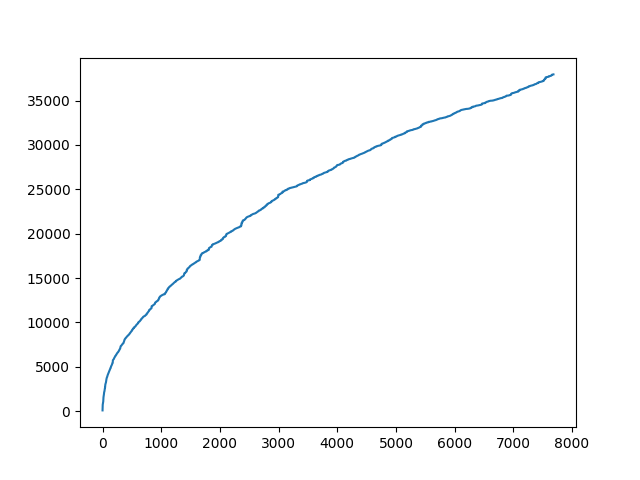
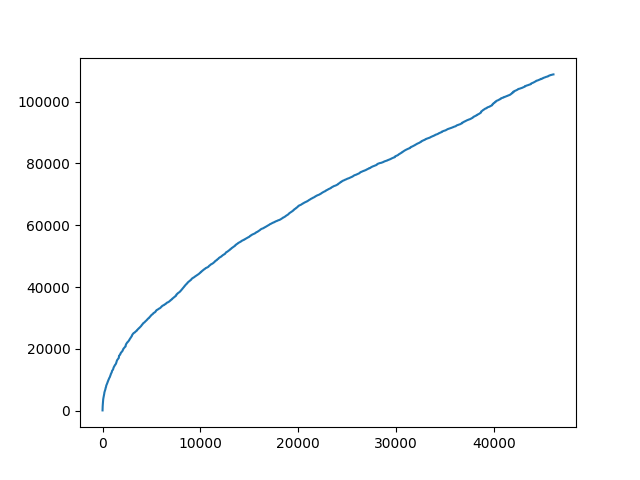
minor changes in reading corpus

diff --git a/Backend/backend_main.py b/Backend/backend_main.py
@@ -27,7 +27,7 @@ def get_news_content(id):
 def get_news_headers(query):
     print("your query: ", query)
     query_phrases, _ = qh.extract_query_parts(query, without_pipeline=True)
-    ans = qh.ask(query)
+    ans = qh.ask(query, b=min(len(dct.centroids), 5))
     results = []
     for doc_id in ans:
         news_model_view = mdls[doc_id]
@@ -40,7 +40,7 @@ def get_news_headers(query):
 
 
 def get_similars(news_id):
-    answers = qh.ask(None, doc=dct.docs[news_id], k=15)
+    answers = qh.ask(None, doc=dct.docs[news_id], k=15, b=min(len(dct.centroids) - 2, 1))
     scores = {}
     for ans in answers:
         scores[ans] = date_subtractor(mdls[ans].publish_date, mdls[ans].publish_date)
@@ -163,24 +163,32 @@ if not os.path.exists('data/dictionary_obj.pkl'):
     labeled_docs_vector = dct2.docs
     del dct2
 
-print("reading from corpus...")
-# corpus = import_utils.load_corpus(flag="xls")
-corpus = import_utils.load_corpus(loc="data/csv/ir-news-0-2.csv", flag="csv")
+NUMBER_OF_FILES = 5
+dataset_base_loc = "data/csv/ir-news-"
 
-print("indexing...")
-mdls = news_model.create_models_list_from_news(corpus)
+print("reading from corpus...")
+mdls = []
+for i in range(NUMBER_OF_FILES):
+    # corpus = import_utils.load_corpus(flag="xls")
+    print("reading " + "file " + str(i + 1) + " ...")
+    loc = dataset_base_loc + str(2 * i) + "-" + str(2 * (i + 1)) + ".csv"
+    corpus = import_utils.load_corpus(loc=loc, flag="csv")
+
+    print("indexing...")
+    mdls.append(news_model.create_models_list_from_news(corpus))
+
 mdls_with_tags = copy.deepcopy(mdls)
 
 print("before:", len(mdls))
-mdls = [model for model in mdls if import_utils.remove_tags(model) is not None]
+mdls = [model for model_list in mdls for model in model_list if import_utils.remove_tags(model) is not None]
 print("after:", len(mdls))
 
 ind = nindexer.Indexer()
+print("feeding ...")
 ind.feed(mdls)
 print("creating dictionary...")
 dct = ind.create_dictionary(labeled_vectors=labeled_docs_vector)
 qh = QueryHandler(dct)
 flask_app = app.FlaskServer(get_news_headers, get_news_content, get_similars)
-
 
 flask_app.run()

diff --git a/Backend/utils/import_utils.py b/Backend/utils/import_utils.py
@@ -12,12 +12,18 @@ DATA_LOC = "data/news.xlsx"
 # DATA_LOC = "data/news_14.csv"
 
 def remove_tags(news_model):
-    if not news_model.content:
-        return None
-    news_model.content = BeautifulSoup(news_model.content, 'lxml').text
-    if not news_model.content:
-        return None
-    return news_model
+    if type(news_model) is list:
+        removed_models = []
+        for model in news_model:
+            removed_models.append(remove_tags(model))
+        return removed_models
+    else:
+        if not news_model.content:
+            return None
+        news_model.content = BeautifulSoup(news_model.content, 'lxml').text
+        if not news_model.content:
+            return None
+        return news_model
 
 
 def load_corpus(loc=DATA_LOC, flag="xls"):

diff --git a/Backend/dictionary/dictionary.py b/Backend/dictionary/dictionary.py
@@ -40,10 +40,10 @@ class Dictionary(UserDict):
         # del self.docs
 
     def calc_clusters(self):
-
-        sampled_docs = sample(self.docs, k=min(len(self.docs), 800))
-        cluster_number = define_best_cluster_number(sampled_docs, iterations=10)
-        self.centroids = kmeans(self.docs, cluster_number, iterations=10)
+        sampled_docs = sample(self.docs, k=min(len(self.docs), 15000))
+        # cluster_number = define_best_cluster_number(sampled_docs, iterations=10)
+        cluster_number = 12
+        self.centroids = kmeans(sampled_docs, cluster_number, iterations=10)
 
     def calc_categories(self, labeled_docs, K=5):
         knn(labeled_docs=labeled_docs, docs=self.docs, K=K)

diff --git a/test.py b/test.py
@@ -20,4 +20,7 @@ print(delta)  # prints: 1 day, 7:50:05
 print(abs(delta.total_seconds() / (24 * 3600)))  # prints: 114605.0
 
 
-print("/news/"+ str3)
+# print("/news/"+ str3)
+
+
+print(type([11]) is list)
